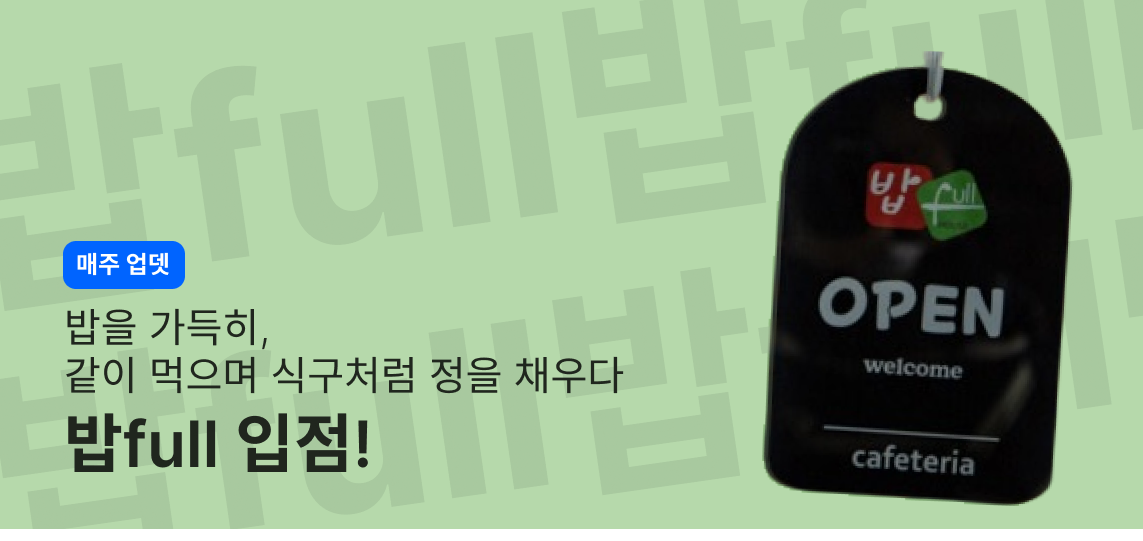
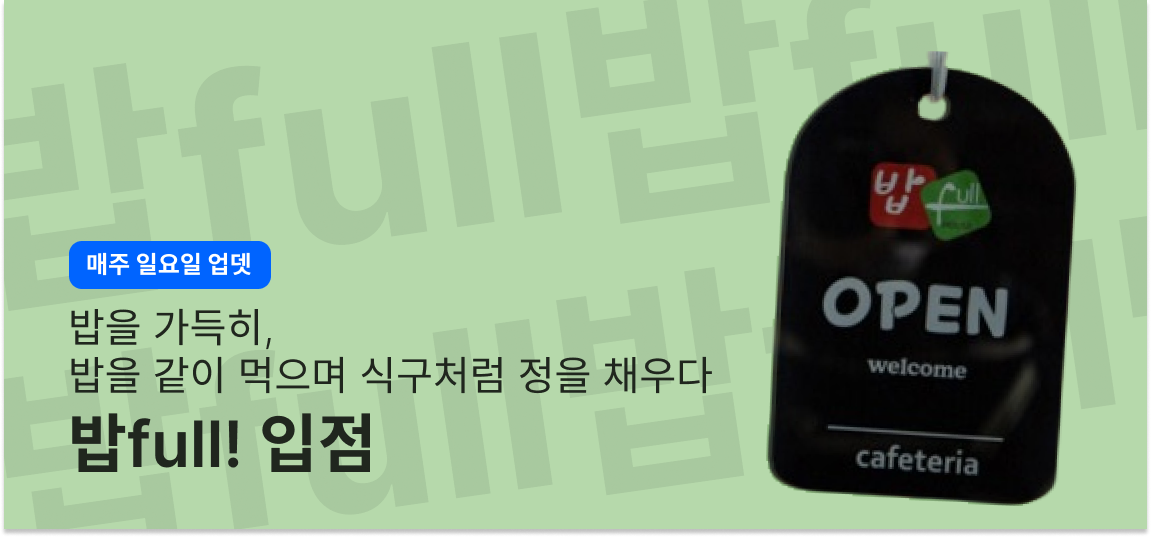
[#76] apply ricefull components, modify ricefull poster img

diff --git a/src/components/Card/WeeklyMenuCard.tsx b/src/components/Card/WeeklyMenuCard.tsx
@@ -1,0 +1,84 @@
+import { css, Theme } from "@emotion/react";
+import MenuHighlight from "components/Text/MenuHighlight";
+
+interface Props {
+  date: string;
+  foods: string[];
+  deliciousFood: string;
+}
+
+function WeeklyMenuCard({ date, foods, deliciousFood }: Props) {
+  return (
+    <article css={wrapper}>
+      <div css={centerWrapper}>
+        <div css={contentWrapper}>
+          <div css={dateCss}>
+            <span>{date}</span>
+          </div>
+          <div css={menuWrapper}>
+            {foods.map((food, index) => (
+              <span key={index} css={meunCss}>
+                {food}
+              </span>
+            ))}
+            <MenuHighlight deliciousFood={deliciousFood} />
+          </div>
+        </div>
+      </div>
+    </article>
+  );
+}
+
+export default WeeklyMenuCard;
+
+const wrapper = css`
+  position: relative;
+  width: auto;
+  height: auto;
+  margin: 1rem 0.6rem;
+`;
+
+const centerWrapper = css`
+  position: relative;
+  display: flex;
+  flex-direction: column;
+  align-items: center;
+  width: 100%;
+`;
+
+const contentWrapper = (theme: Theme) => css`
+  position: relative;
+  width: 100%;
+  min-height: 16rem;
+  padding-bottom: 3rem;
+  background-color: ${theme.color.grey100};
+  border-radius: 5px;
+`;
+
+const dateCss = (theme: Theme) => css`
+  display: flex;
+  justify-content: center;
+  align-items: center;
+  color: ${theme.color.white};
+  background-color: #abbfa4;
+  font-weight: ${theme.fontWeight.bold};
+  font-size: 0.85rem;
+  width: 6rem;
+  height: 1.85rem;
+  border-radius: 5px 0 14px 0;
+`;
+
+const meunCss = (theme: Theme) => css`
+  position: relative;
+  color: ${theme.color.black};
+  font-weight: ${theme.fontWeight.light};
+  font-size: 0.95rem;
+  overflow: auto;
+  margin-bottom: 0.18rem;
+`;
+
+const menuWrapper = css`
+  display: flex;
+  flex-direction: column;
+  padding: 1rem 0.8rem;
+`;

diff --git a/src/components/common/Ricefull/IntroduceCard.tsx b/src/components/common/Ricefull/IntroduceCard.tsx
@@ -1,0 +1,67 @@
+import { css, Theme } from "@emotion/react";
+
+interface Props {
+  img: string;
+  title: string;
+  summary: string;
+}
+
+function IntroduceCard({ img, title, summary }: Props) {
+  return (
+    <div css={cardSizeWrapper}>
+      <div css={imgWrapper}>
+        <img src={`/images/${img}`} alt="img" css={imgCss} />
+      </div>
+      <div css={contentSizeWrapper}>
+        <span css={titleCss}>{title}</span>
+        <span css={summaryCss}>{summary}</span>
+      </div>
+    </div>
+  );
+}
+
+export default IntroduceCard;
+
+const cardSizeWrapper = css`
+  height: 100%;
+  width: 100%;
+  border-radius: 18px;
+  margin: 2.5rem 1rem 0 0;
+`;
+
+const imgWrapper = css`
+  position: relative;
+  overflow: hidden;
+  width: 15rem;
+  height: 15rem;
+  border-radius: 18px 18px 0 0;
+`;
+
+const imgCss = css`
+  width: 100%;
+  height: 100%;
+`;
+
+const contentSizeWrapper = (theme: Theme) => css`
+  position: relative;
+  display: flex;
+  flex-direction: column;
+  padding: 1.75rem;
+  border-radius: 0 0 18px 18px;
+  line-height: 2rem;
+  text-align: left;
+  font-weight: ${theme.fontWeight.bold};
+  background-color: ${theme.color.grey100};
+  width: 15rem;
+  height: 13.5rem;
+`;
+
+const titleCss = (theme: Theme) => css`
+  font-weight: ${theme.fontWeight.bold};
+  font-size: 1.1rem;
+`;
+
+const summaryCss = (theme: Theme) => css`
+  font-weight: ${theme.fontWeight.light};
+  font-size: 0.95rem;
+`;
